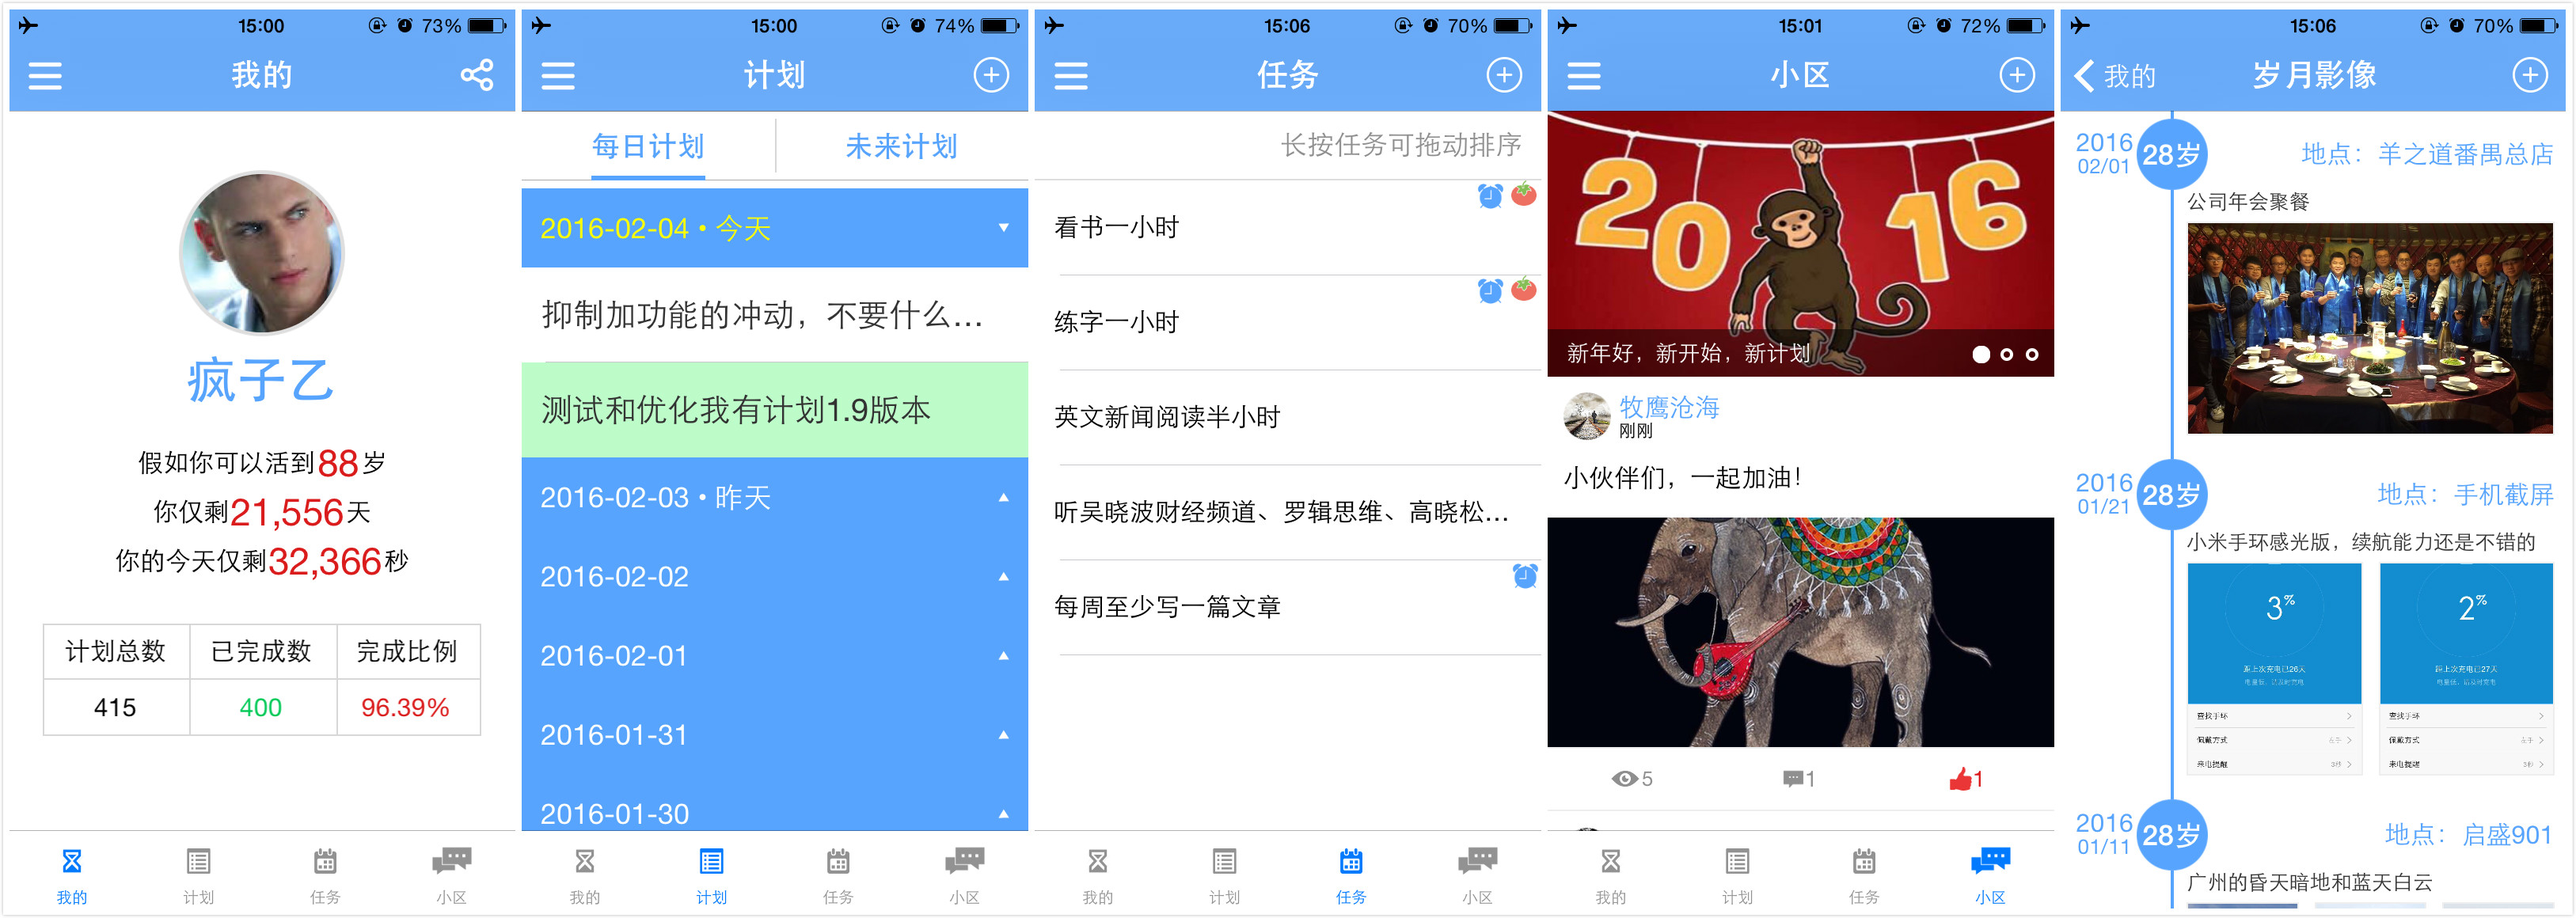
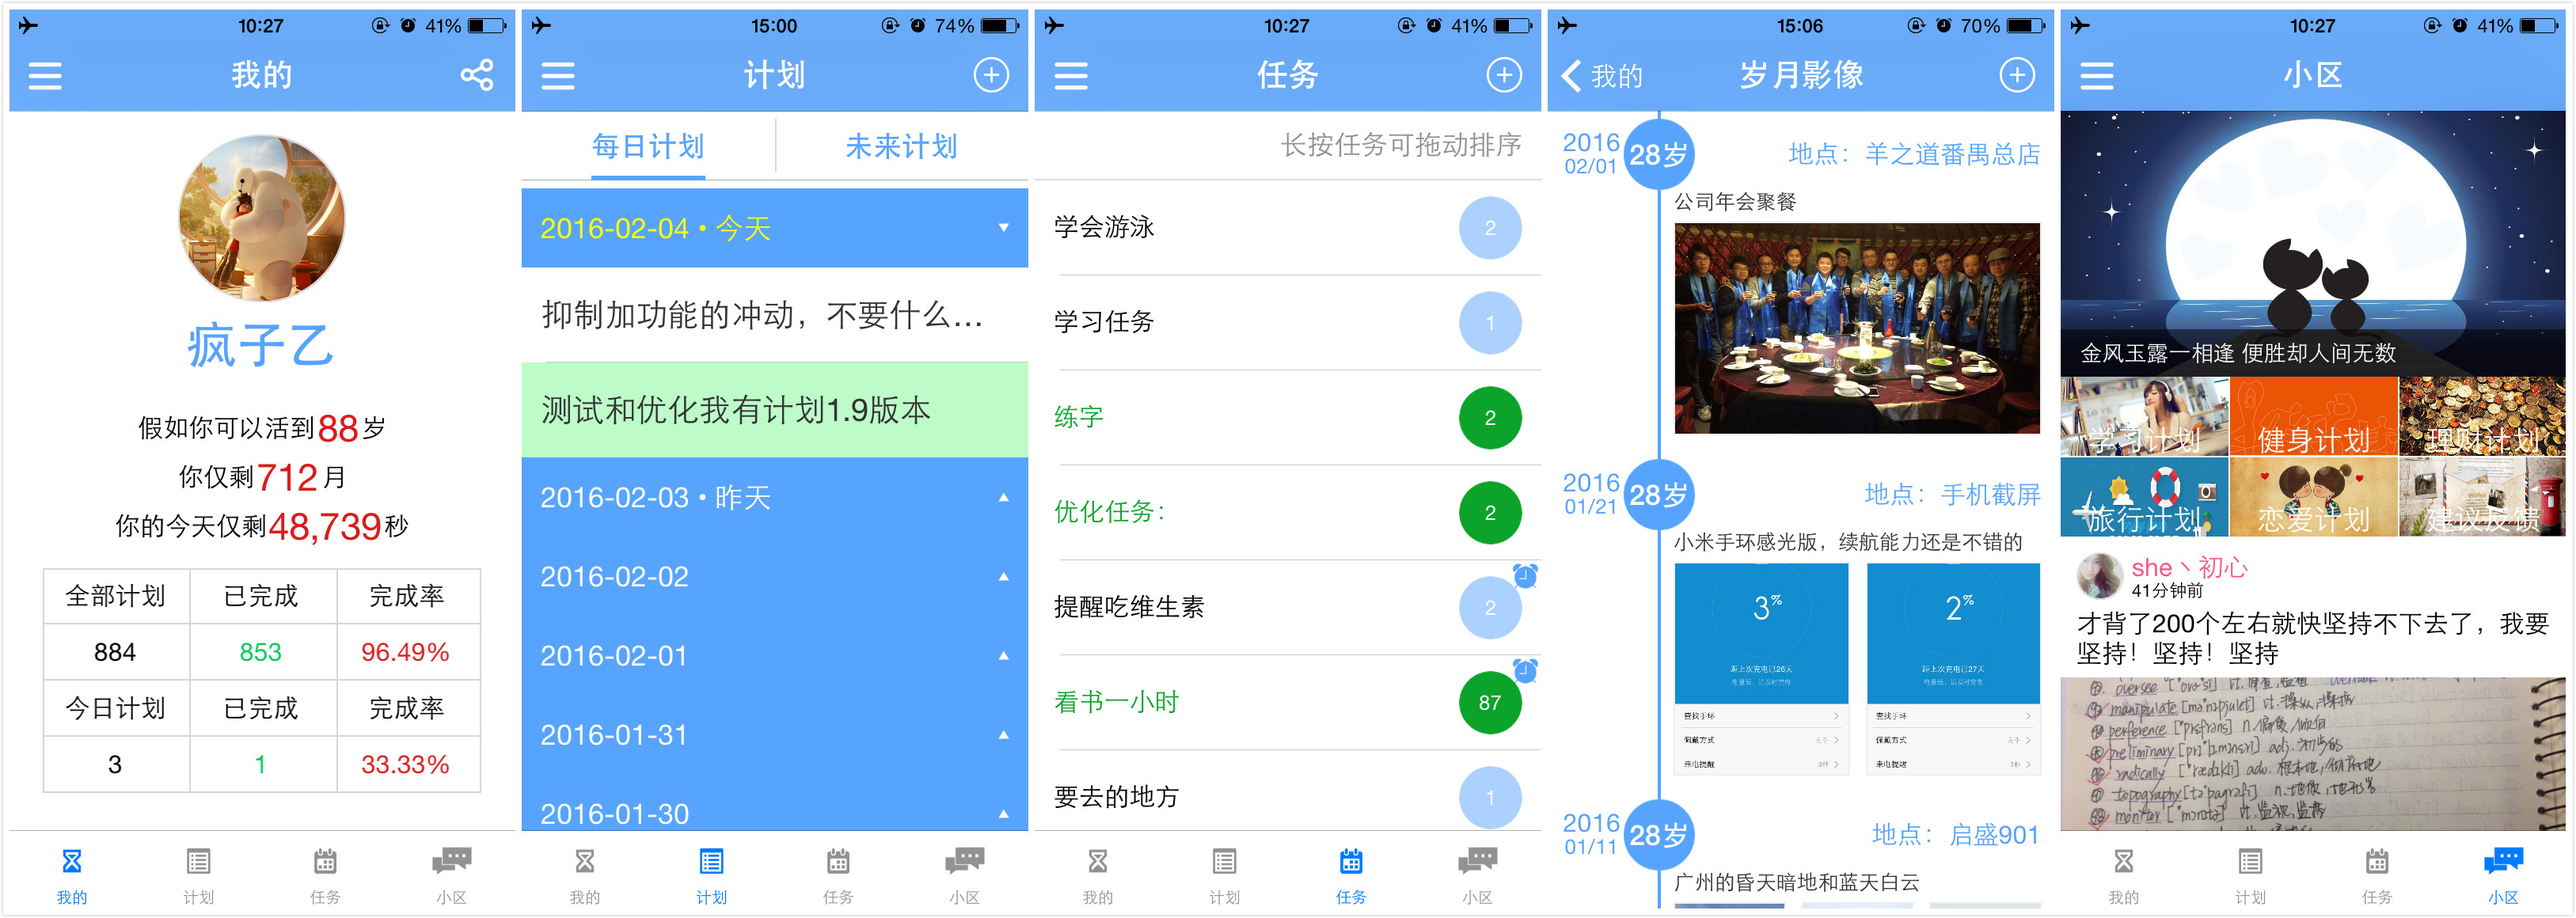
更新版本说明

diff --git a/README.md b/README.md
@@ -52,6 +52,19 @@
 * QQ群: 217103389
 
 ##版本记录
+iOS版V2.5
+
+######修复问题：
+* ➖修复变更计划自动延期的设置项后没有马上刷新计划列表数据的问题
+* ➖修复在“任务”列表中直接点击圆形按钮完成一次会出现任务互相覆盖的问题
+
+######新增功能：
+* ➕ 增加“首页”统计今日计划完成率
+
+######若干优化：
+* ◉ 新建计划设置闹钟的显示优化
+* ◉ 小区列表显示样式的改造优化
+
 iOS版V2.4
 
 ※欢迎老用户回归※
